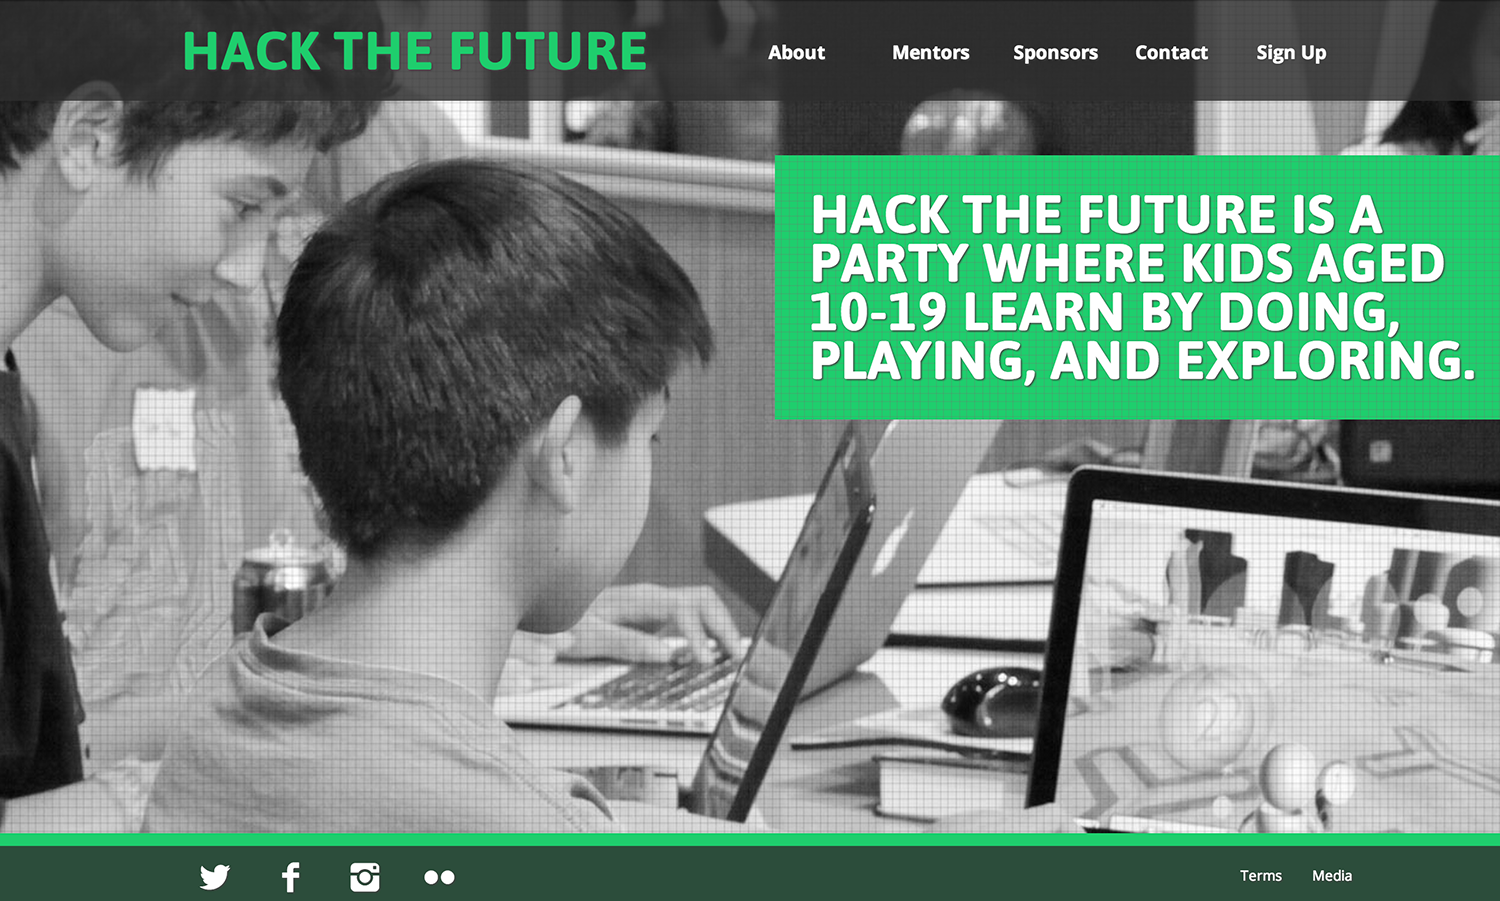
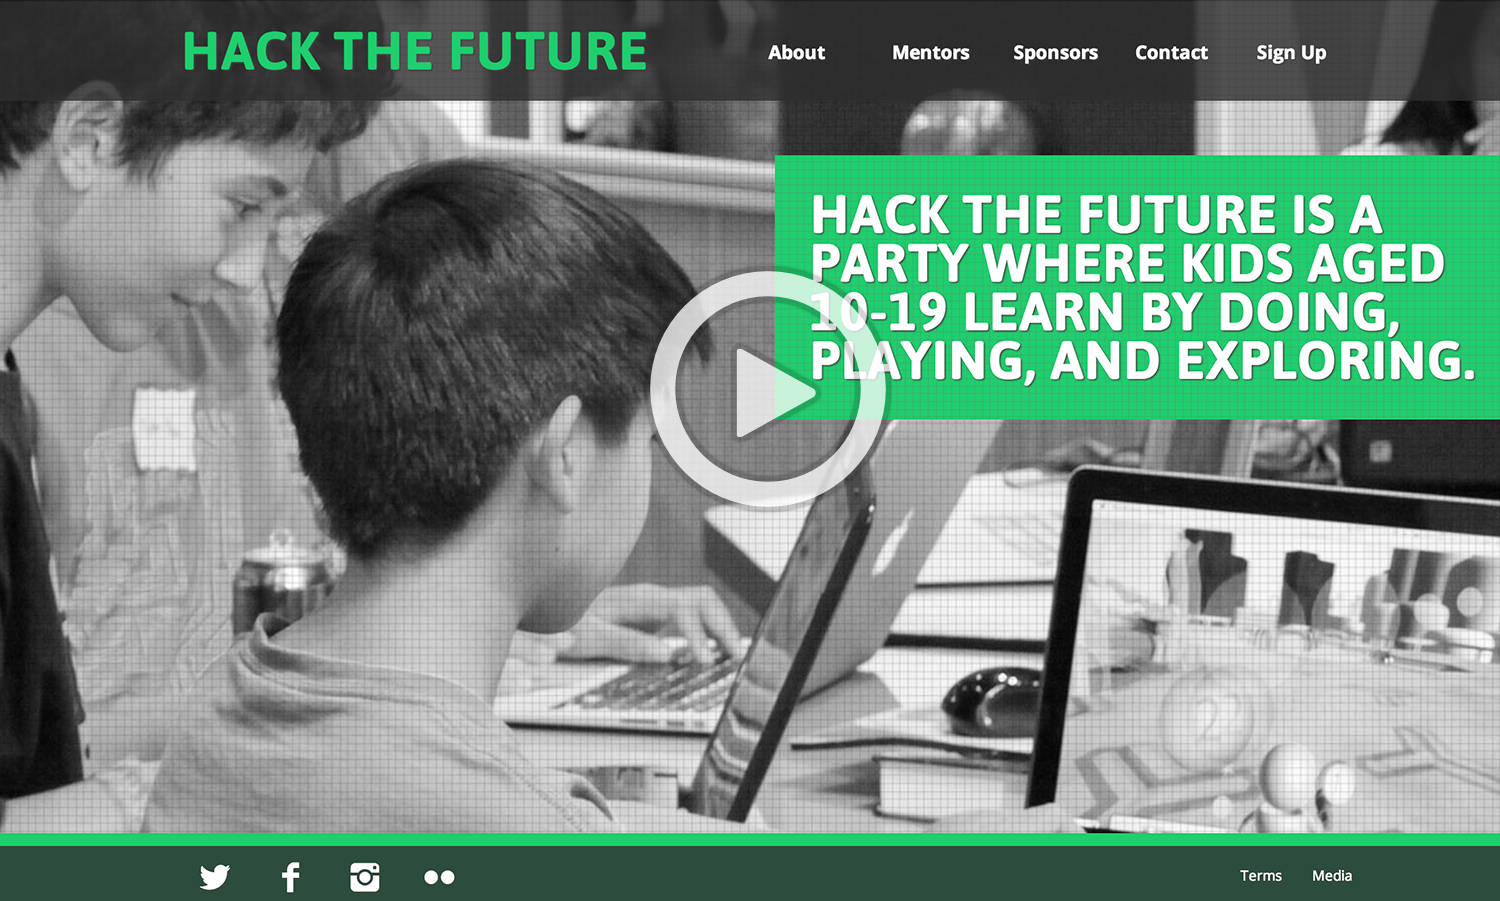
Fixing the play buttons

Changed region(s): [[0.4293, 0.2797, 0.6133, 0.5905]]

diff --git a/source/stylesheets/_global.css.scss b/source/stylesheets/_global.css.scss
@@ -146,3 +146,22 @@ em {
 .title {
   color: $color-blue;
 }
+
+.img_button {
+  cursor: pointer;
+  -webkit-transition: all 0.125s ease-in-out;
+  -moz-transition: all 0.125s ease-in-out;
+  -o-transition: all 0.125s ease-in-out;
+  transition: all 0.125s ease-in-out;
+
+  &:hover {
+    -webkit-transform: scale(1.025);
+    -moz-transform: scale(1.025);
+    -o-transform: scale(1.025);
+    transform: scale(1.025);
+    -webkit-transition: all 0.125s ease-in-out;
+    -moz-transition: all 0.125s ease-in-out;
+    -o-transition: all 0.125s ease-in-out;
+    transition: all 0.125s ease-in-out;
+  }
+}
